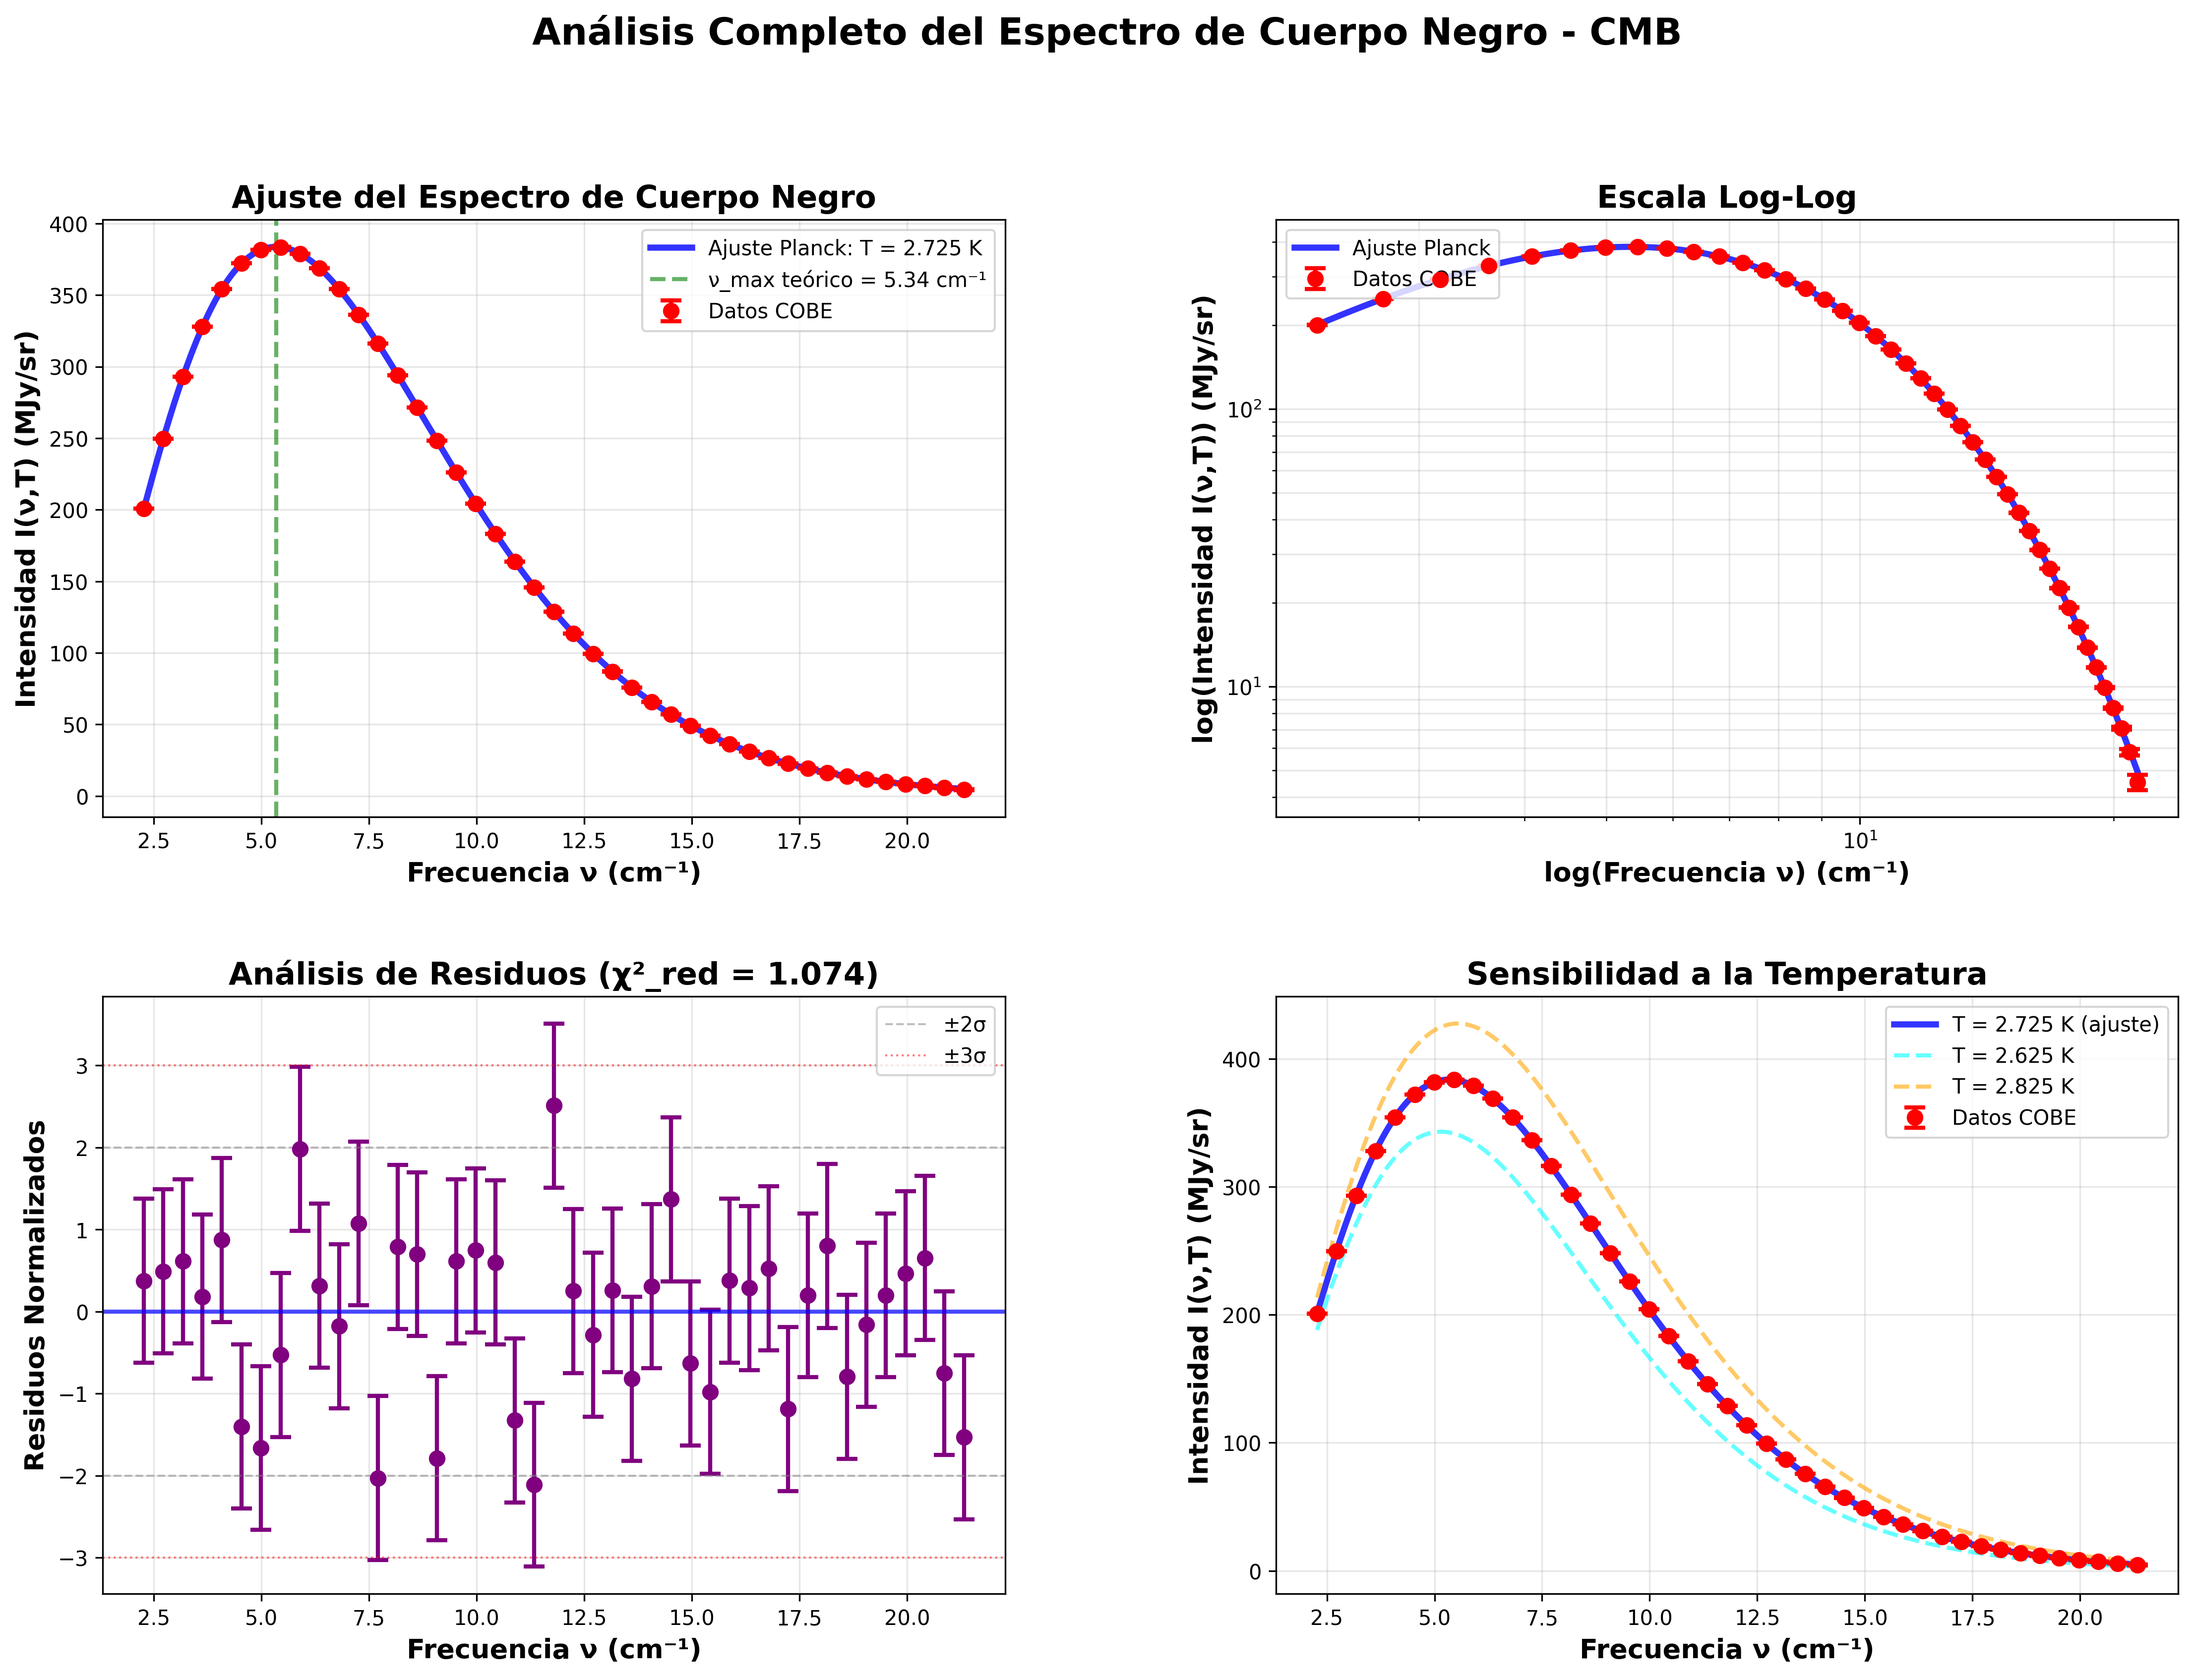
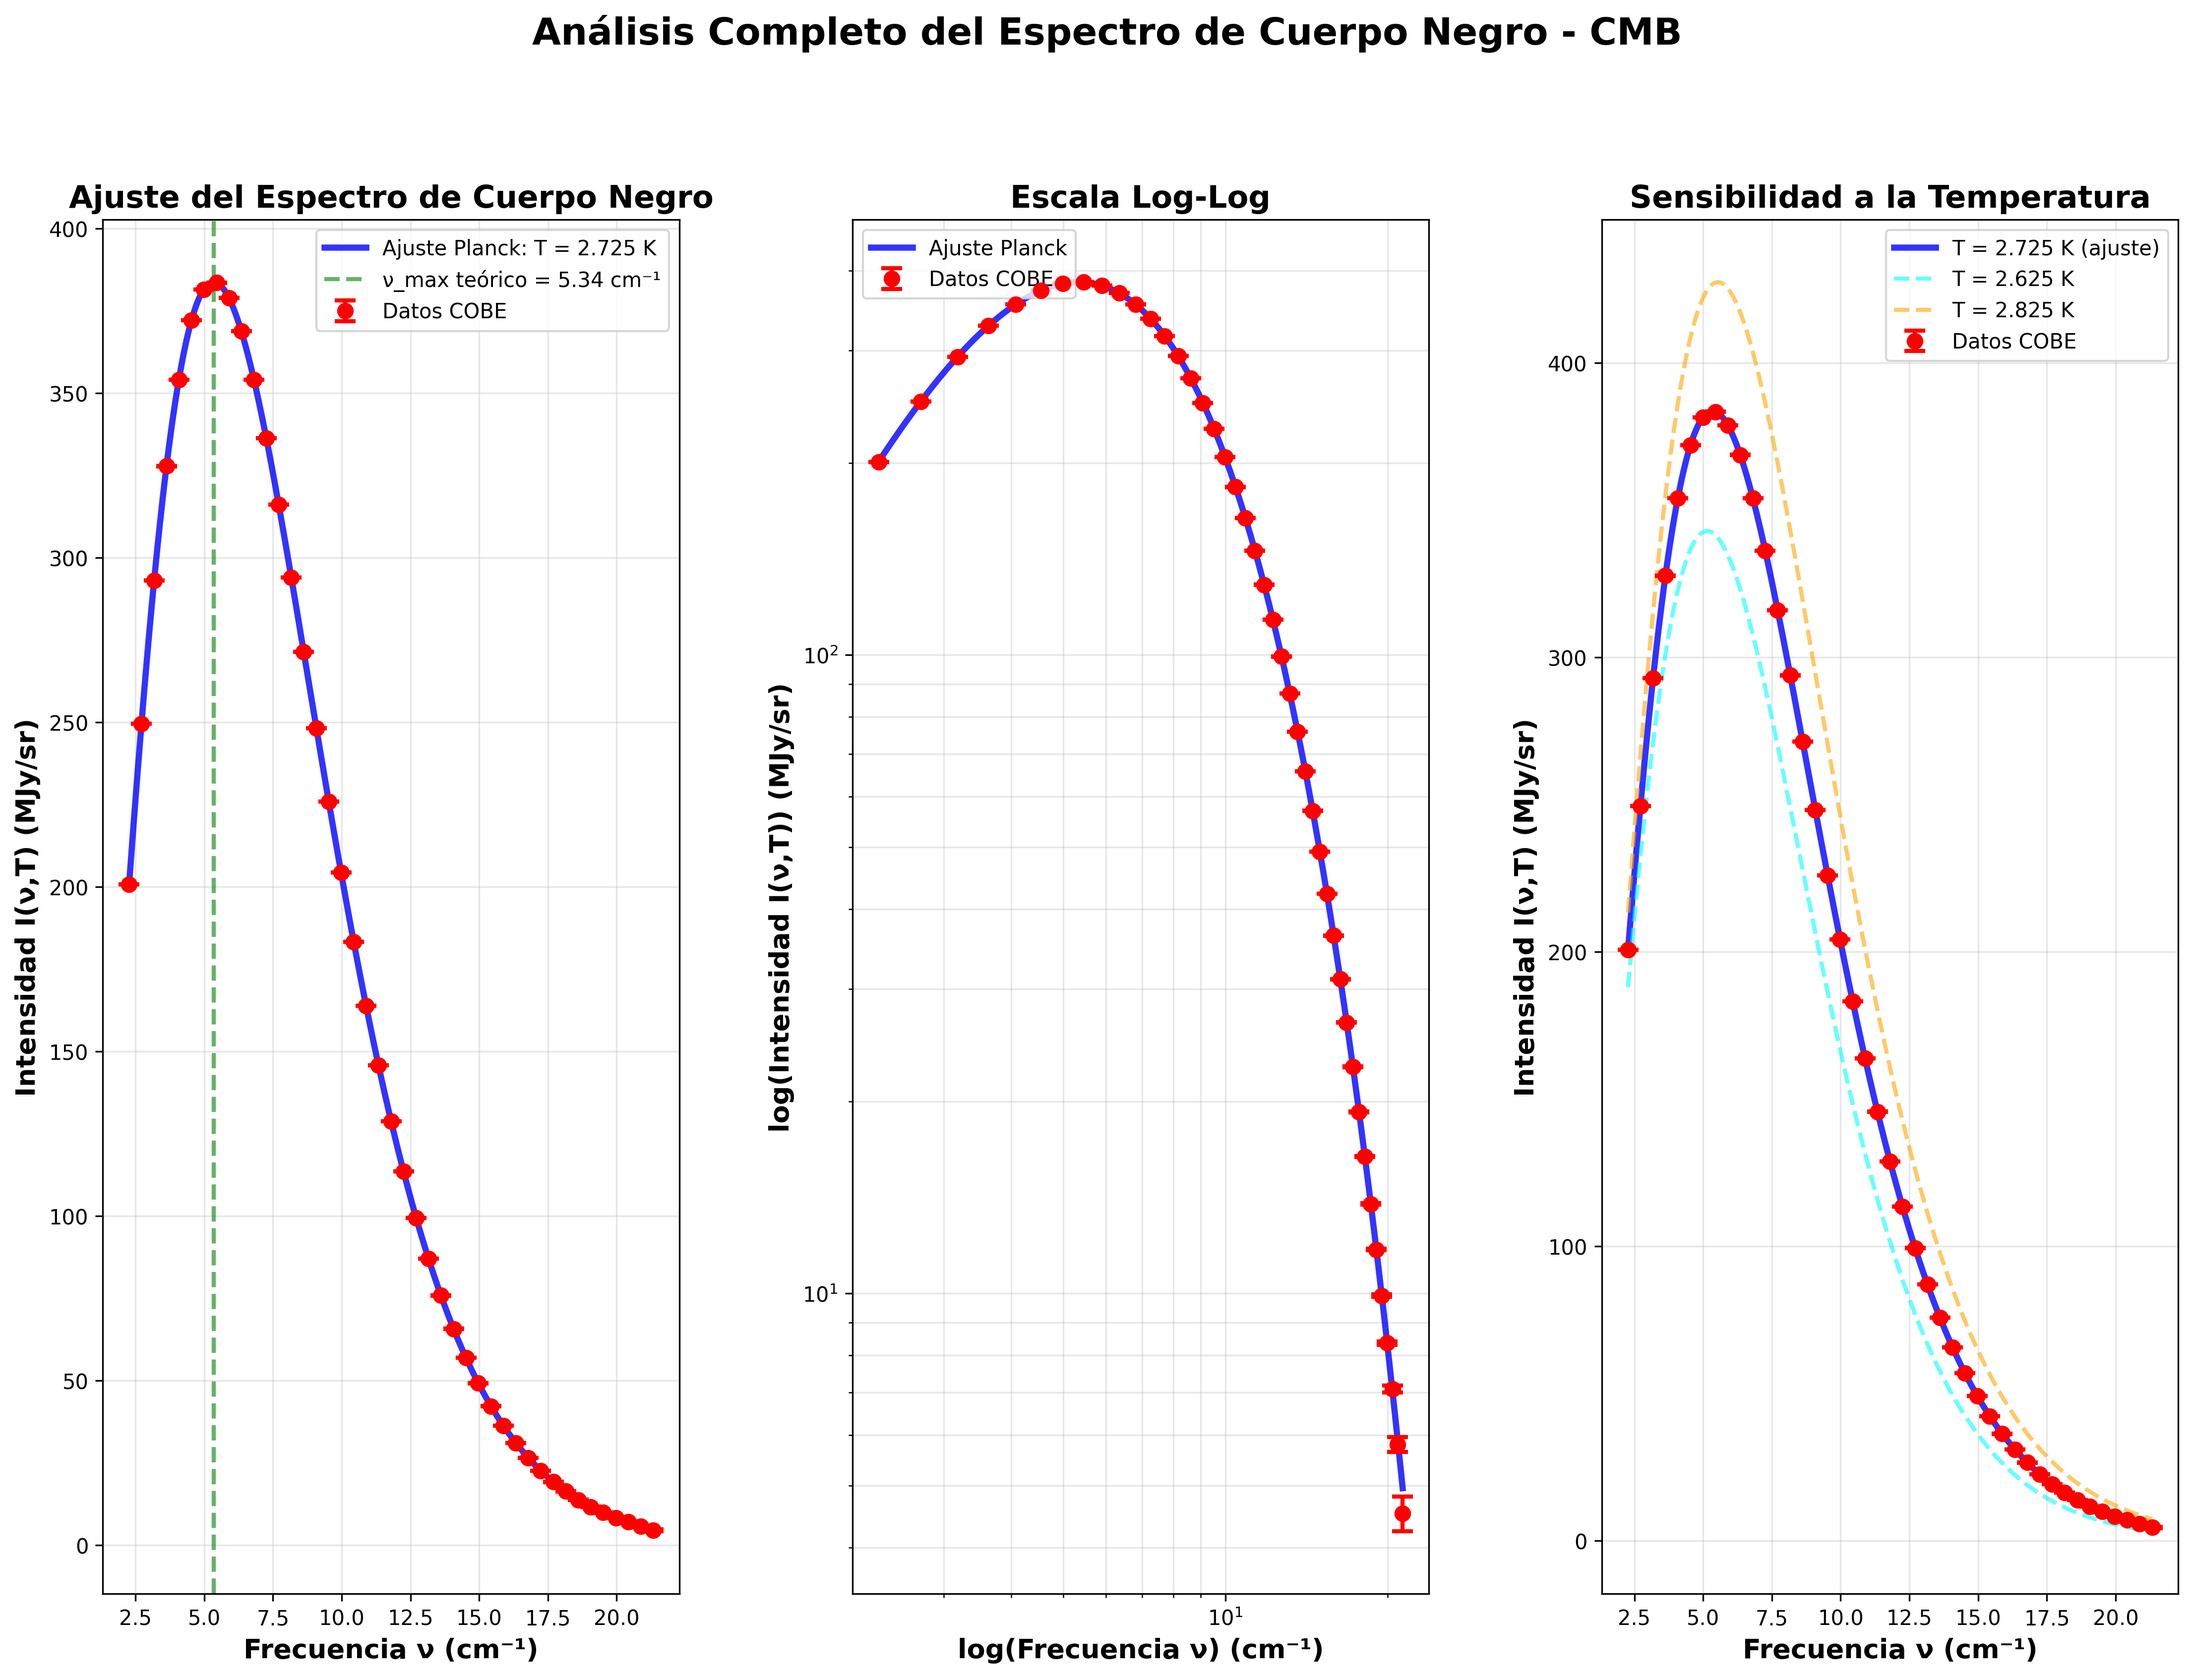
homework 5 finished

diff --git a/src/hmwks/homework_5/radiation.py b/src/hmwks/homework_5/radiation.py
@@ -273,13 +273,11 @@ try:
     nu_suave = np.linspace(nu.min(), nu.max(), 1000)
     I_suave = planck_model(nu_suave, T_fit)
     
-    # Crear figura con 4 subplots
+    # Crear figura con 3 subplots
     fig = plt.figure(figsize=(18, 12))
-    gs = fig.add_gridspec(2, 2, hspace=0.3, wspace=0.3)
+    gs = fig.add_gridspec(1, 3, hspace=0.3, wspace=0.3)
     
-    # ==================================================================
     # Subplot 1: Datos y ajuste
-    # ==================================================================
     
     ax1 = fig.add_subplot(gs[0, 0])
     
@@ -304,11 +302,9 @@ try:
     ax1.legend(fontsize=10, loc='upper right')
     ax1.grid(True, alpha=0.3)
     
-    # ==================================================================
     # Subplot 2: Escala log-log
-    # ==================================================================
     
-    ax2 = fig.add_subplot(gs[0, 1])
+    ax2 = fig.add_subplot(gs[0,1])
     
     ax2.errorbar(nu, I_nu_T, yerr=sigma, fmt='o', color='red', markersize=7,
                 capsize=5, elinewidth=2, capthick=2,
@@ -325,33 +321,9 @@ try:
     ax2.legend(fontsize=10, loc='upper left')
     ax2.grid(True, alpha=0.3, which='both')
     
-    # ==================================================================
-    # Subplot 3: Residuos
-    # ==================================================================
+    # Subplot 3: Comparación con otras temperaturas
     
-    ax3 = fig.add_subplot(gs[1, 0])
-    
-    ax3.errorbar(nu, residuos_normalizados, yerr=1.0, fmt='o', color='purple',
-                markersize=7, capsize=5, elinewidth=2, capthick=2)
-    
-    ax3.axhline(0, color='blue', linestyle='-', linewidth=2, alpha=0.7)
-    ax3.axhline(2, color='gray', linestyle='--', linewidth=1, alpha=0.5, label='±2σ')
-    ax3.axhline(-2, color='gray', linestyle='--', linewidth=1, alpha=0.5)
-    ax3.axhline(3, color='red', linestyle=':', linewidth=1, alpha=0.5, label='±3σ')
-    ax3.axhline(-3, color='red', linestyle=':', linewidth=1, alpha=0.5)
-    
-    ax3.set_xlabel('Frecuencia ν (cm⁻¹)', fontsize=13, fontweight='bold')
-    ax3.set_ylabel('Residuos Normalizados', fontsize=13, fontweight='bold')
-    ax3.set_title(f'Análisis de Residuos (χ²_red = {chi2_reducido:.3f})', 
-                 fontsize=15, fontweight='bold')
-    ax3.legend(fontsize=10)
-    ax3.grid(True, alpha=0.3)
-    
-    # ==================================================================
-    # Subplot 4: Comparación con otras temperaturas
-    # ==================================================================
-    
-    ax4 = fig.add_subplot(gs[1, 1])
+    ax4 = fig.add_subplot(gs[0,2])
     
     # Datos
     ax4.errorbar(nu, I_nu_T, yerr=sigma, fmt='o', color='red', markersize=7,
@@ -420,7 +392,7 @@ try:
     console.print(panel)
 
 except Exception as e:
-    print(f"\n✗ Error en el ajuste: {e}")
+    print(f"\nD: Error en el ajuste: {e}")
     print("\nPosibles soluciones:")
     print("  1. Verificar que los datos estén en el formato correcto")
     print("  2. Ajustar el valor inicial de temperatura")
